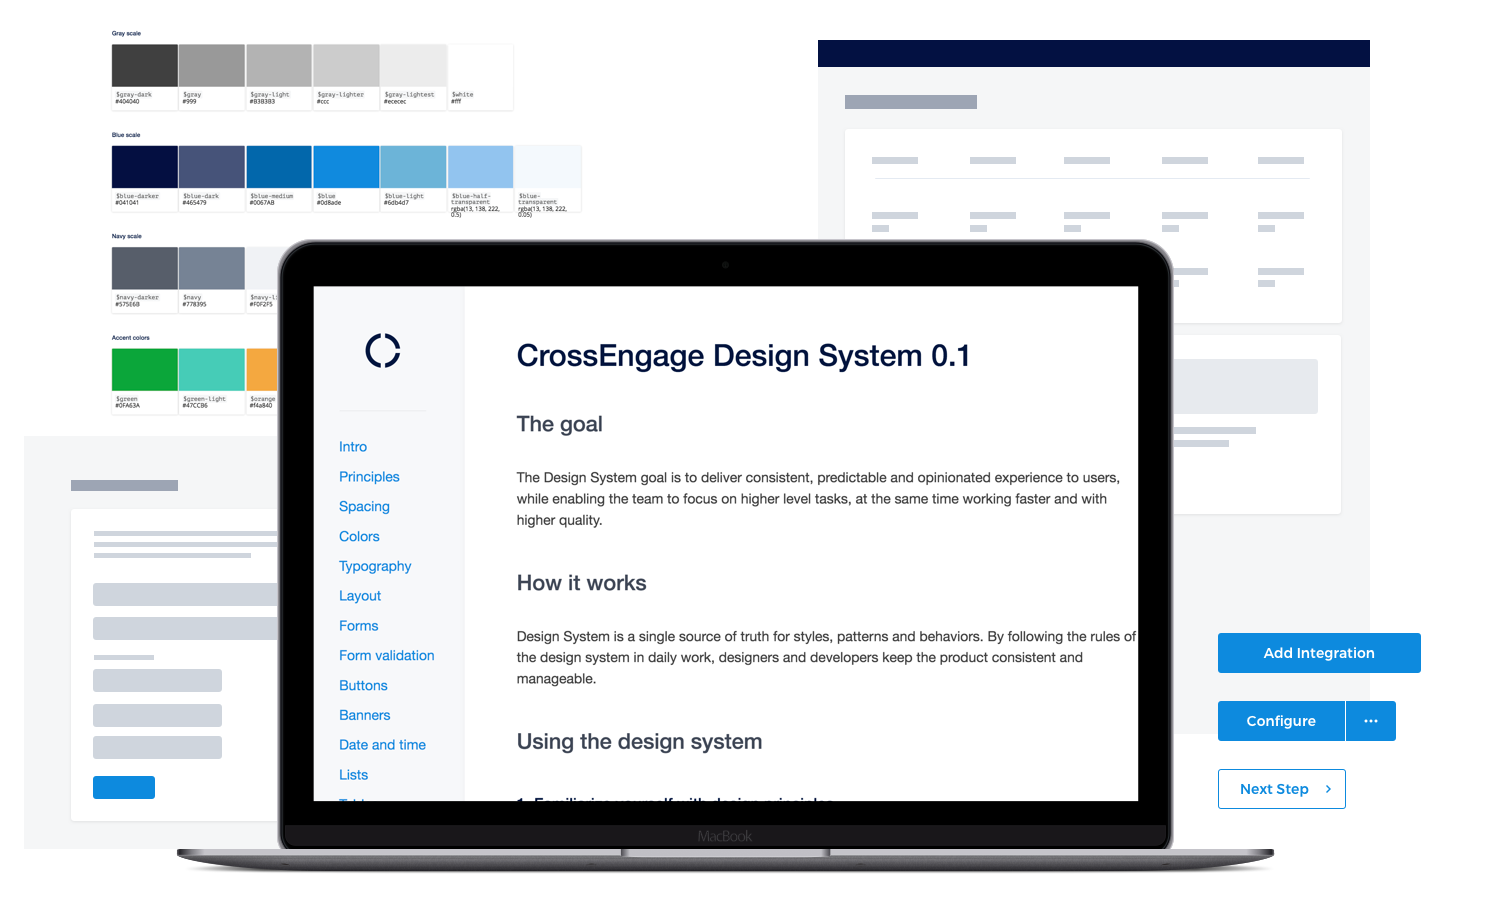
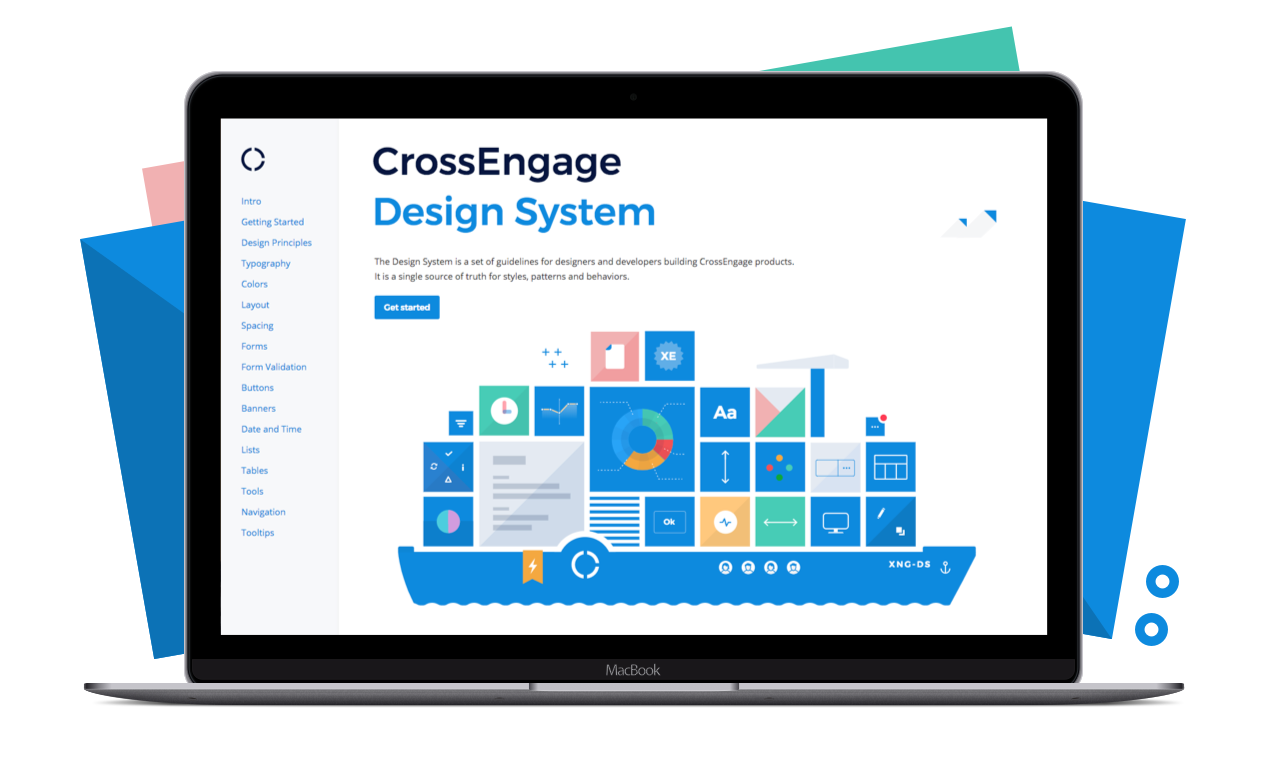
bababa

diff --git a/xe-design-system/index.html b/xe-design-system/index.html
@@ -69,7 +69,7 @@
     <div class="container-fluid accented_back text-center">
       <div class="container">  
         <h1>CrossEngage Design System</h1>
-        <p class="lead">Making sense of complexity with a single source of design truth.</p>
+        <p class="lead">Managing complexity with a single source of truth.</p>
 				<hr>
         <img class="img-responsive center-block" src="/images/xe-design-system.png" alt="CrossEngage Design System">
       </div>
@@ -80,16 +80,31 @@
 		<section class="copy-section">
 			<p>CrossEngage is a customer data platform — a marketing software that lets companies research the userbase, build sophisticated user segments and develop marketing communications accordingly. For the managers using the software, it means dealing with complex interfaces like campaign builders, event journey builders and segment editors.</p>
 			
-			<h3>Problems</h3>
+			<h3>Problem</h3>
 
-			<p>Most of the users were reporting the same set of problems: lack of consistency, unpredictable behaviours and complexity of the interface.</p>
-				
-		</section>
-		<img class="img-responsive center-block" src="/images/problems-old-new.png">
-		<p class="caption text-center">Problems need to be solved for both new and legacy features</p>
-		<section class="copy-section">
-				
-			<p>While new features are expected to come in better designs naturally, redesigning already functioning "old" features needs a separate process.</p>
+            <p>We had tons of great design ideas, but often they pulled the product in opposite directions.</p>
+            <p>Users were reporting inconsistency, unpredictable behaviours and complexity of the interface.</p>
+
+            <h3>Overview of the process</h3>
+
+            <p>The process included 4 stages. From zero to a product in use, it took about 6 months.</p>
+            <ol>
+                <li>Developing design principles</li>
+                <li>Performing audit and making an asset library</li>
+                <li>Building and launching a first version of a connected styleguide</li>
+                <li>Upgrading the styleguide into a design system</li>
+            </ol>
+            <p>Here is a quick breakdown of what happened:</p>
+
+			<h3>1. Finding common ground with design principles</h3>
+            I have conveyed a 3-phase research which resulted in a set of accepted design principles. <a href="/xe-design-principles">Read more about our research for design principles.</a>
+
+            <h3>2. Audit of the existing and Creating design asset library</h4>
+            
+			<h3>Enabling shared styleguide as an internal product</h3>
+            
+            <h3>From styleguide to design system</h3>
+
 			
 		</section>
 

diff --git a/index.html b/index.html
@@ -78,8 +78,8 @@
        
 			 				<h1>
 								<span class="nobrline">I turn ideas into products.</span></br>
-								<span class="nobrline">Specifically, I make concepts and requirements,</span>
-								<span class="nobrline">interactions and interfaces.</span></br>
+								<span class="nobrline">That means making concepts, mockups,</span>
+								<span class="nobrline">prototypes and guidelines.</span></br>
 							</h1>
 									
 		        <a name="work" href="#"></a><h1>Read more <a href="/about">about me</a> or <span class="nobrline">see my work &darr;</span></h1>
@@ -89,36 +89,35 @@
 	    </div>
 	</div>
 
-	  <div class="container-fluid work_item">
+	<div class="container-fluid work_item">
 		<div class="container">
 			<figure class="work_item_image">
-				<img class="img-responsive" src="/images/xe-design-principles-frontpage.png">
+				<img class="img-responsive" src="/images/xe-design-system.png">
 			</figure>		
 			<div class="meta">
-  			<h2><br>CrossEngage<br>Design Principles</h2>
-				<p>Designing statements that help making design decisions</p>
+  			<h2><br>CrossEngage<br>Design System and Principles</h2>
+				<p>Single source of truth for design values, behaviours and styles.</p>
 				
-				<a class="btn btn-primary btn-lg" type="button" href="/xe-design-principles/">View project</a>
+				<a class="btn btn-primary btn-lg" type="button" href="/xe-design-system/">View project</a>
     	</div>
 		</div>
 	</div>
 
-  <div class="container-fluid work_item">
+  	<div class="container-fluid work_item">
 		<div class="container">
 			<figure class="work_item_image">
 				<img class="img-responsive" src="/images/portfolio_frontpage_fonoteka.png">
 			</figure>		
 			<div class="meta">
   			<h2>Fonoteka</h2>
-				<p>The simplest and the cheapest music app with a strong focus on albums listening</p>
+				<p>The simplest and the cheapest music app with a focus on albums listening</p>
 				
 				<a class="btn btn-primary btn-lg" type="button" href="/fonoteka/">View project</a>
     	</div>
 		</div>
-	</div>
+	</div>	
 	
-	
-  <div class="container-fluid work_item">
+  	<div class="container-fluid work_item">
 		<div class="container">
 			<figure class="work_item_image">
 				<img class="img-responsive" src="/images/portfolio_frontpage_zvooqweb.png">
@@ -132,7 +131,7 @@
 		</div>
 	</div>
 	
-  <div class="container-fluid work_item">
+  	<div class="container-fluid work_item">
 		<div class="container">
 			<figure class="work_item_image">
 				<img class="img-responsive" src="/images/portfolio_frontpage_zvooqmobile.png">

diff --git a/xe-design-principles/index.html b/xe-design-principles/index.html
@@ -125,7 +125,7 @@
             <h3>Familiar patterns over customizations.</h3>
             <p>CrossEngage users need to learn some abstractions to operate in a less cluttered UI. To make learning faster, patterns have to be consistent, even though some better fit can be achieved by redefining the pattern or introducing a new one.</p>
             <br>
-            <p>The principles became the keystone for <a href="https://crossengage.bitbucket.io/styleguide/" target="_blank">CrossEngage Design System</a>, this way getting stronger connected to the product and to the team.</a></p>
+            <p>The principles are the keystone of <a href="/xe-design-system" target="_blank">CrossEngage Design System</a>, this way getting stronger connected to the product and to the team.</a></p>
         </section>
 
 		

diff --git a/css/heyblackbox.css b/css/heyblackbox.css
@@ -21,6 +21,10 @@ a, a:hover, a:visited {
 	color: #90775A;
 }
 
+ol,ul {
+	margin-bottom: 20px !important;
+}
+
 li {
   margin-bottom: 0.6em;
 	
